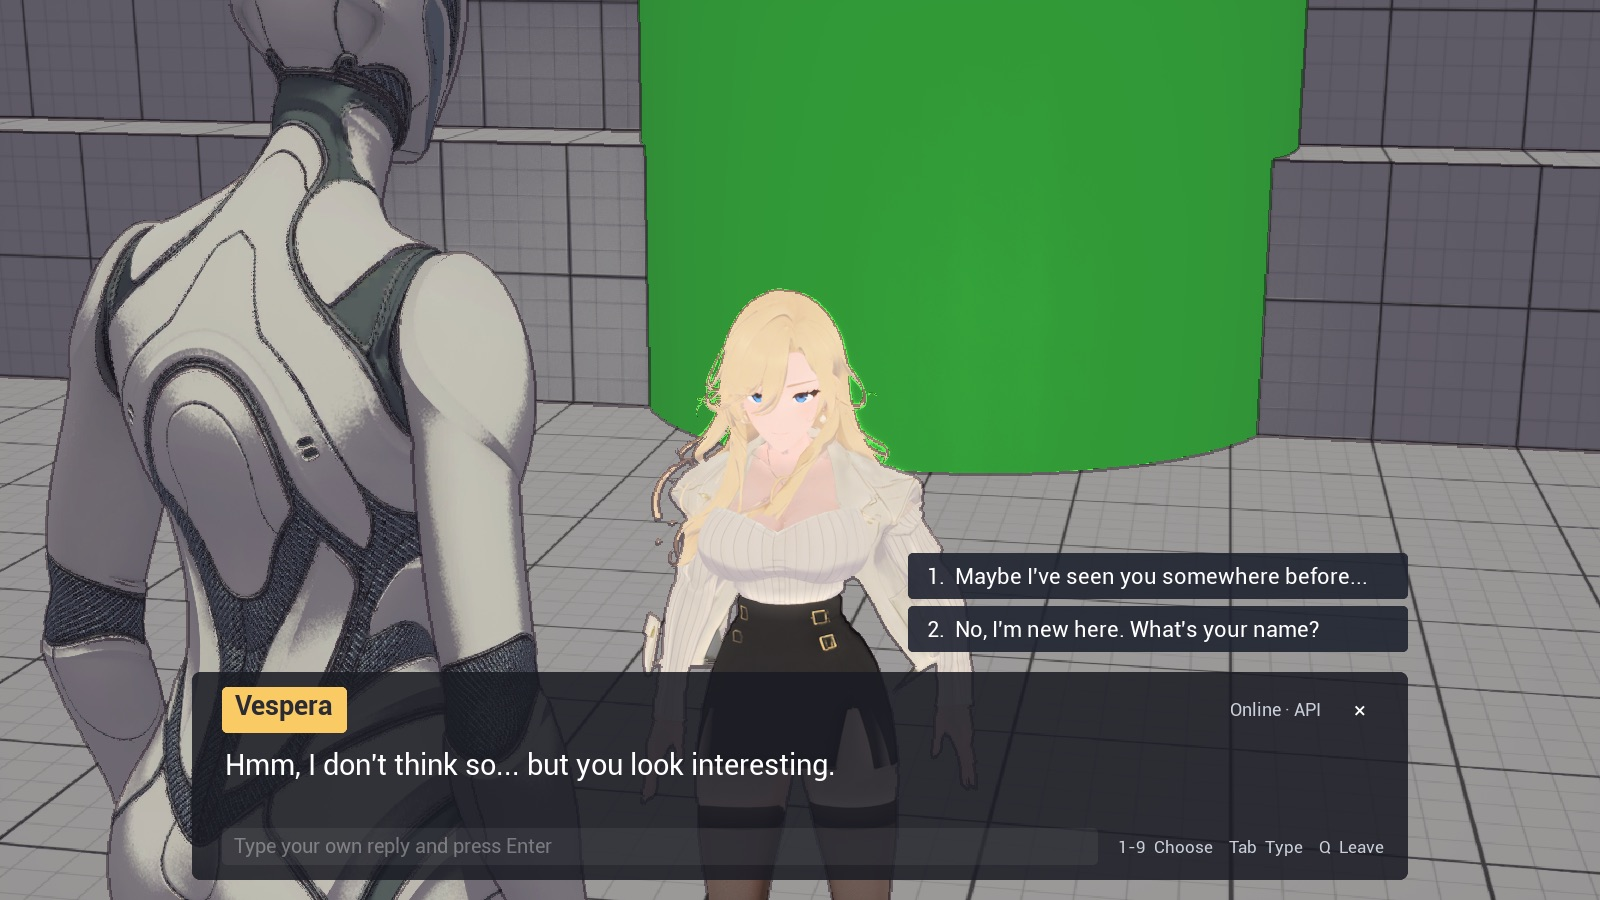
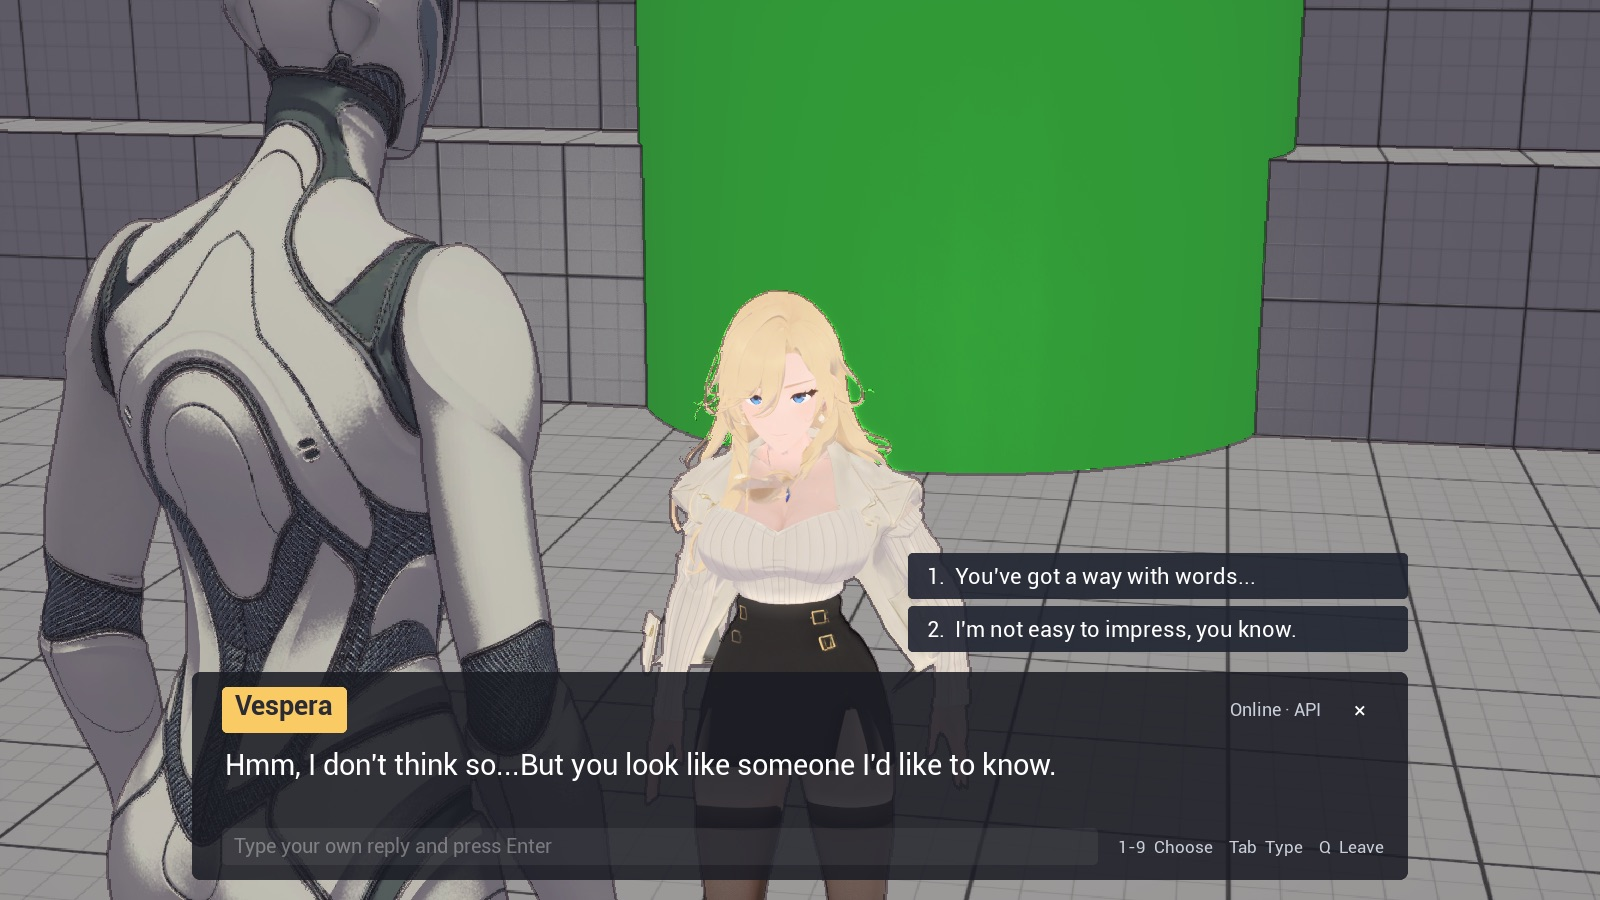
feat: keep only silhouette ink lines on the characters
On character pixels (custom stencil 1, or unlit MToon with no base color)
the toon post-process uses depth edges only, so hair strands and face
shapes get no lines.

diff --git a/Scripts/make_toon_material.py b/Scripts/make_toon_material.py
@@ -8,6 +8,7 @@ The material runs after tonemapping:
   tones, lit and shade, with a tinted shade. Pixels with custom stencil 1 (the VRM
   characters, which have their own MToon shading) and unlit pixels (sky) keep their color.
 - Ink lines: depth and normal edges darken the color below them, and fade with distance.
+  On the characters only depth edges (silhouettes and overlaps) make lines.
 """
 
 import unreal
@@ -58,7 +59,11 @@ for (int i = 0; i < 4; i++)
     float3 m = SceneTextureLookup(neighbor, 8, false).rgb;
     normalEdge = max(normalEdge, 1 - dot(normal, m / max(length(m), 1e-4)));
 }
-float edge = max(smoothstep(0.05, 0.08, depthEdge), smoothstep(0.35, 0.5, normalEdge));
+// Characters (stencil 1, or unlit MToon with no base color) get only silhouette and
+// overlap lines from depth: normal edges draw a line on every hair strand and face shape.
+bool character = stencil > 0.5 || max(base.r, max(base.g, base.b)) < 0.01;
+float normalLine = character ? 0 : smoothstep(0.35, 0.5, normalEdge);
+float edge = max(smoothstep(0.05, 0.08, depthEdge), normalLine);
 float fade = 1 - saturate((depth - FadeStart) / max(FadeEnd - FadeStart, 1));
 result = lerp(result, result * InkColor, edge * fade * InkStrength);
 if (Debug > 0.5)

diff --git a/README.md b/README.md
@@ -98,7 +98,9 @@ runs after tonemapping:
   becomes two flat tones: lit, and a tinted shade. The VRM characters keep their
   own MToon shading (custom stencil 1, set by `ANpcifyNpc`).
 - **Ink lines.** Depth and normal edges darken the color below them, so the
-  lines have the color of the surface. They fade out with distance.
+  lines have the color of the surface. They fade out with distance. On the
+  characters only depth edges make lines (the silhouette and overlaps), so hair
+  strands and faces stay clean.
 
 `UNpcifyDemoSubsystem` adds an unbound post-process volume with this material. The
 volume also turns off Lumen global illumination, Lumen reflections and ambient
